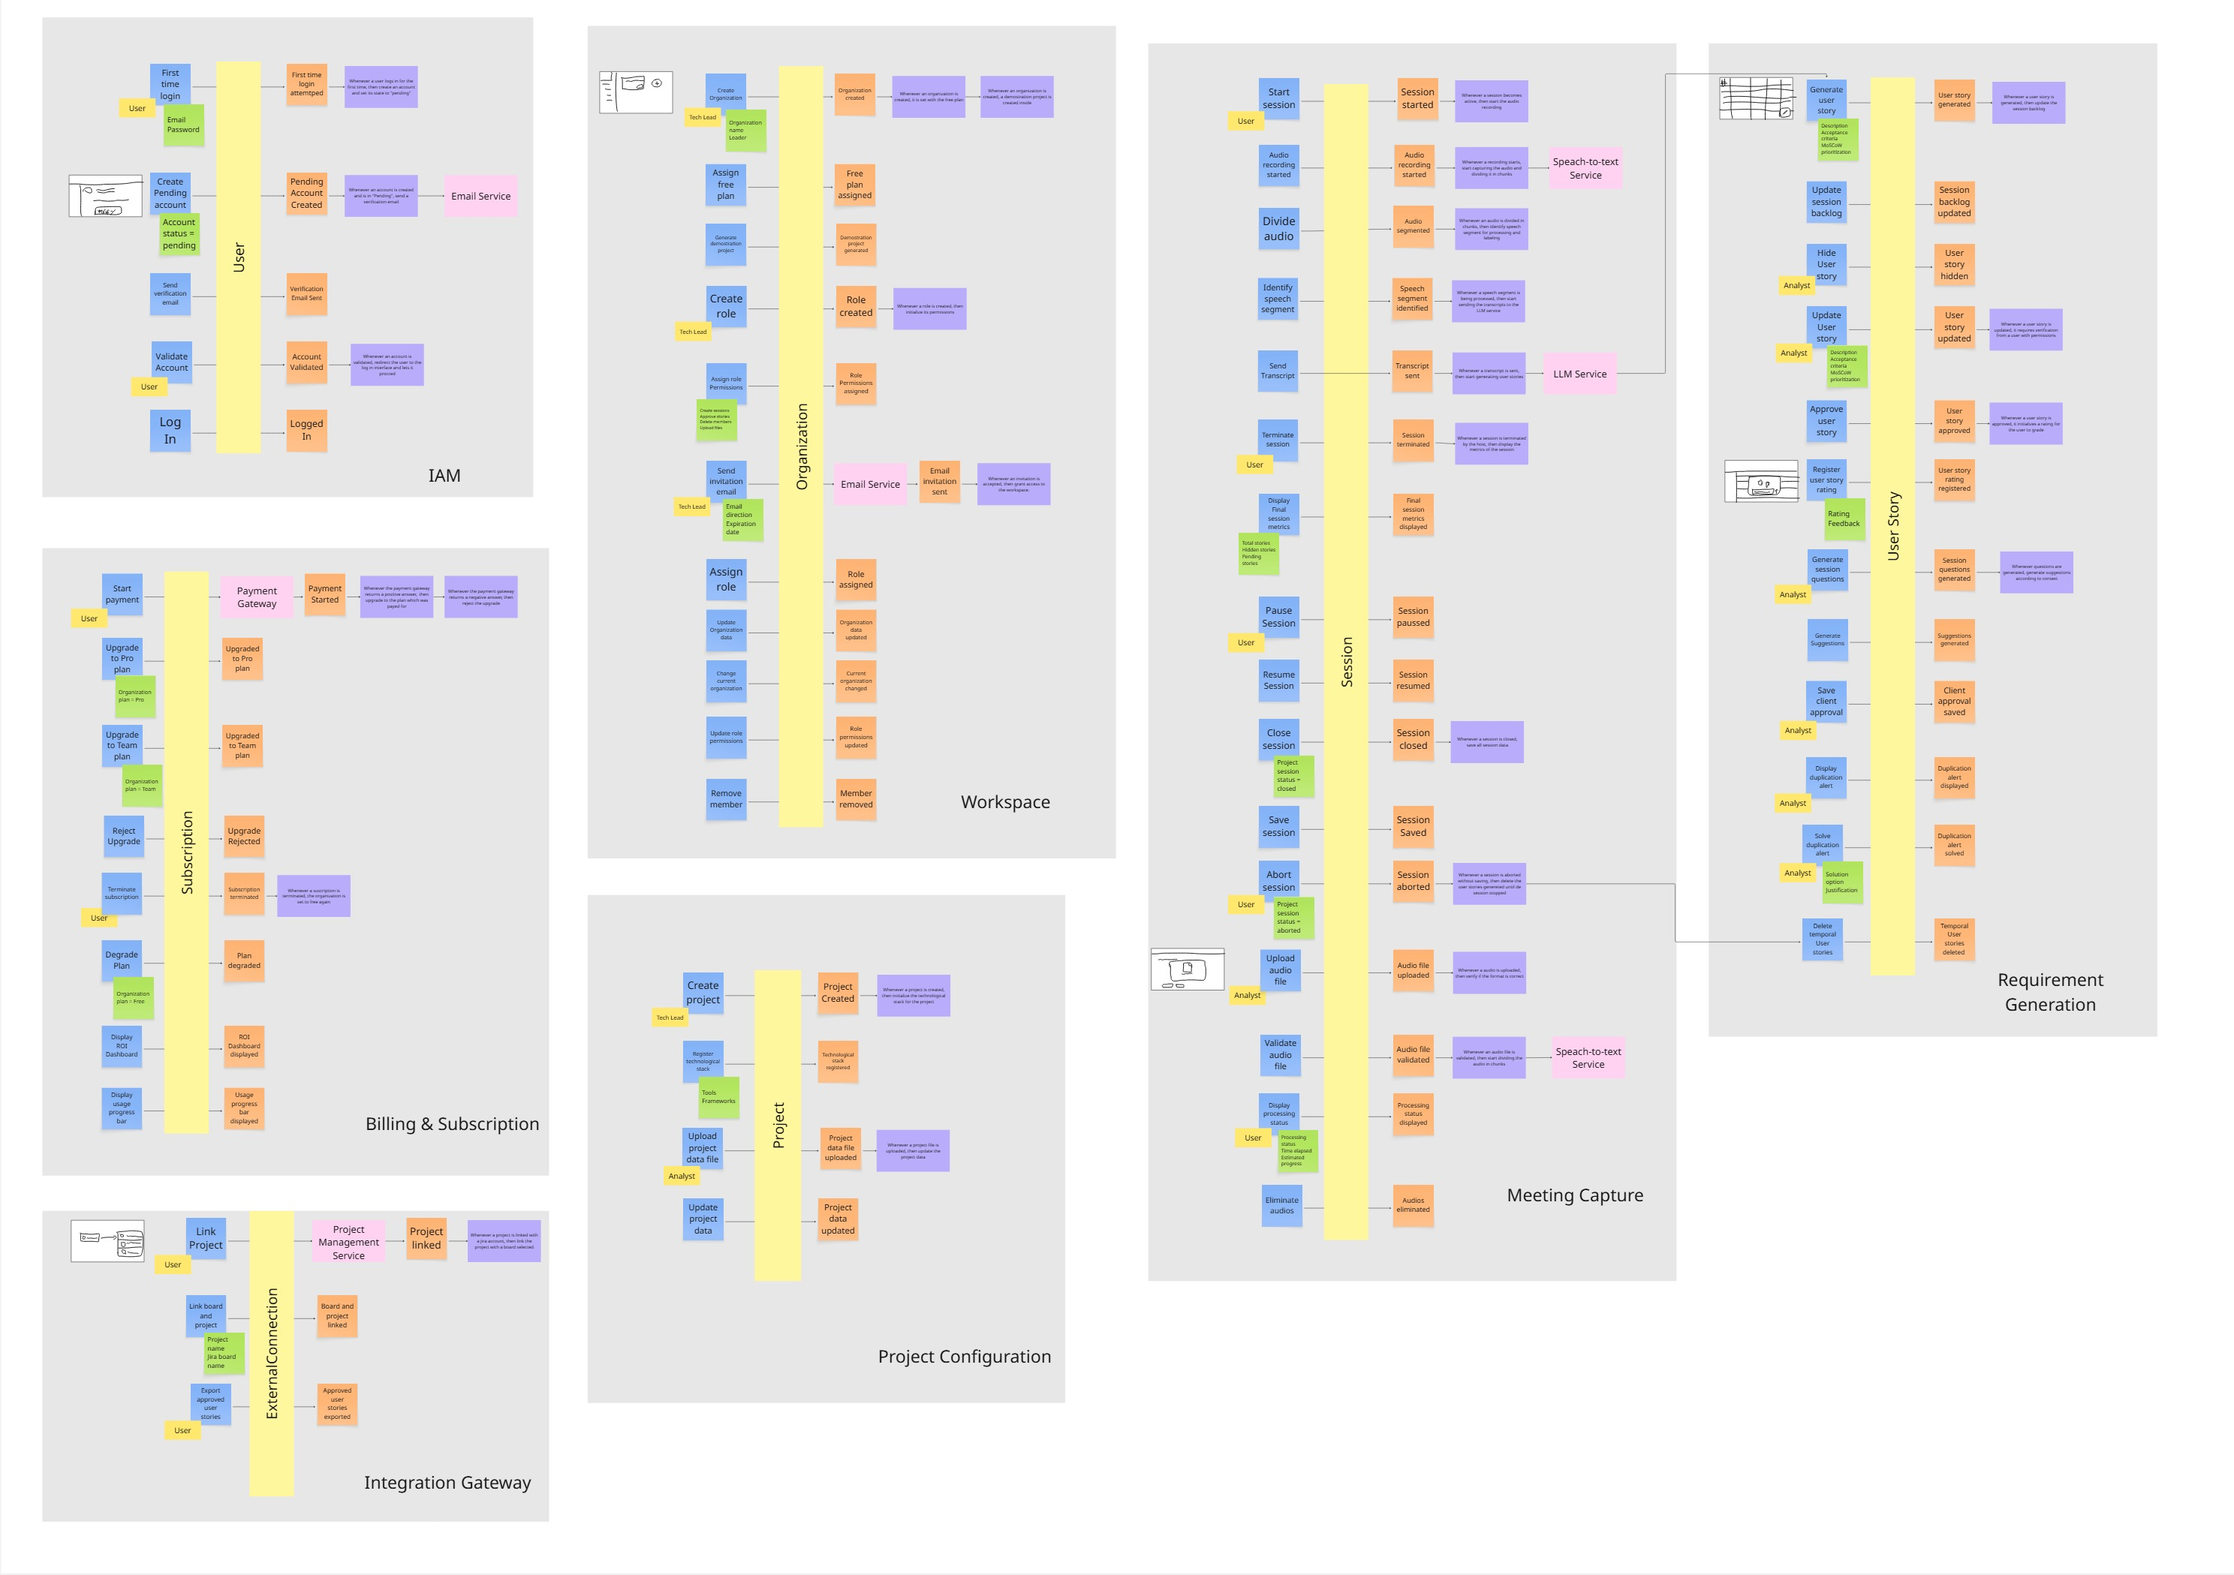
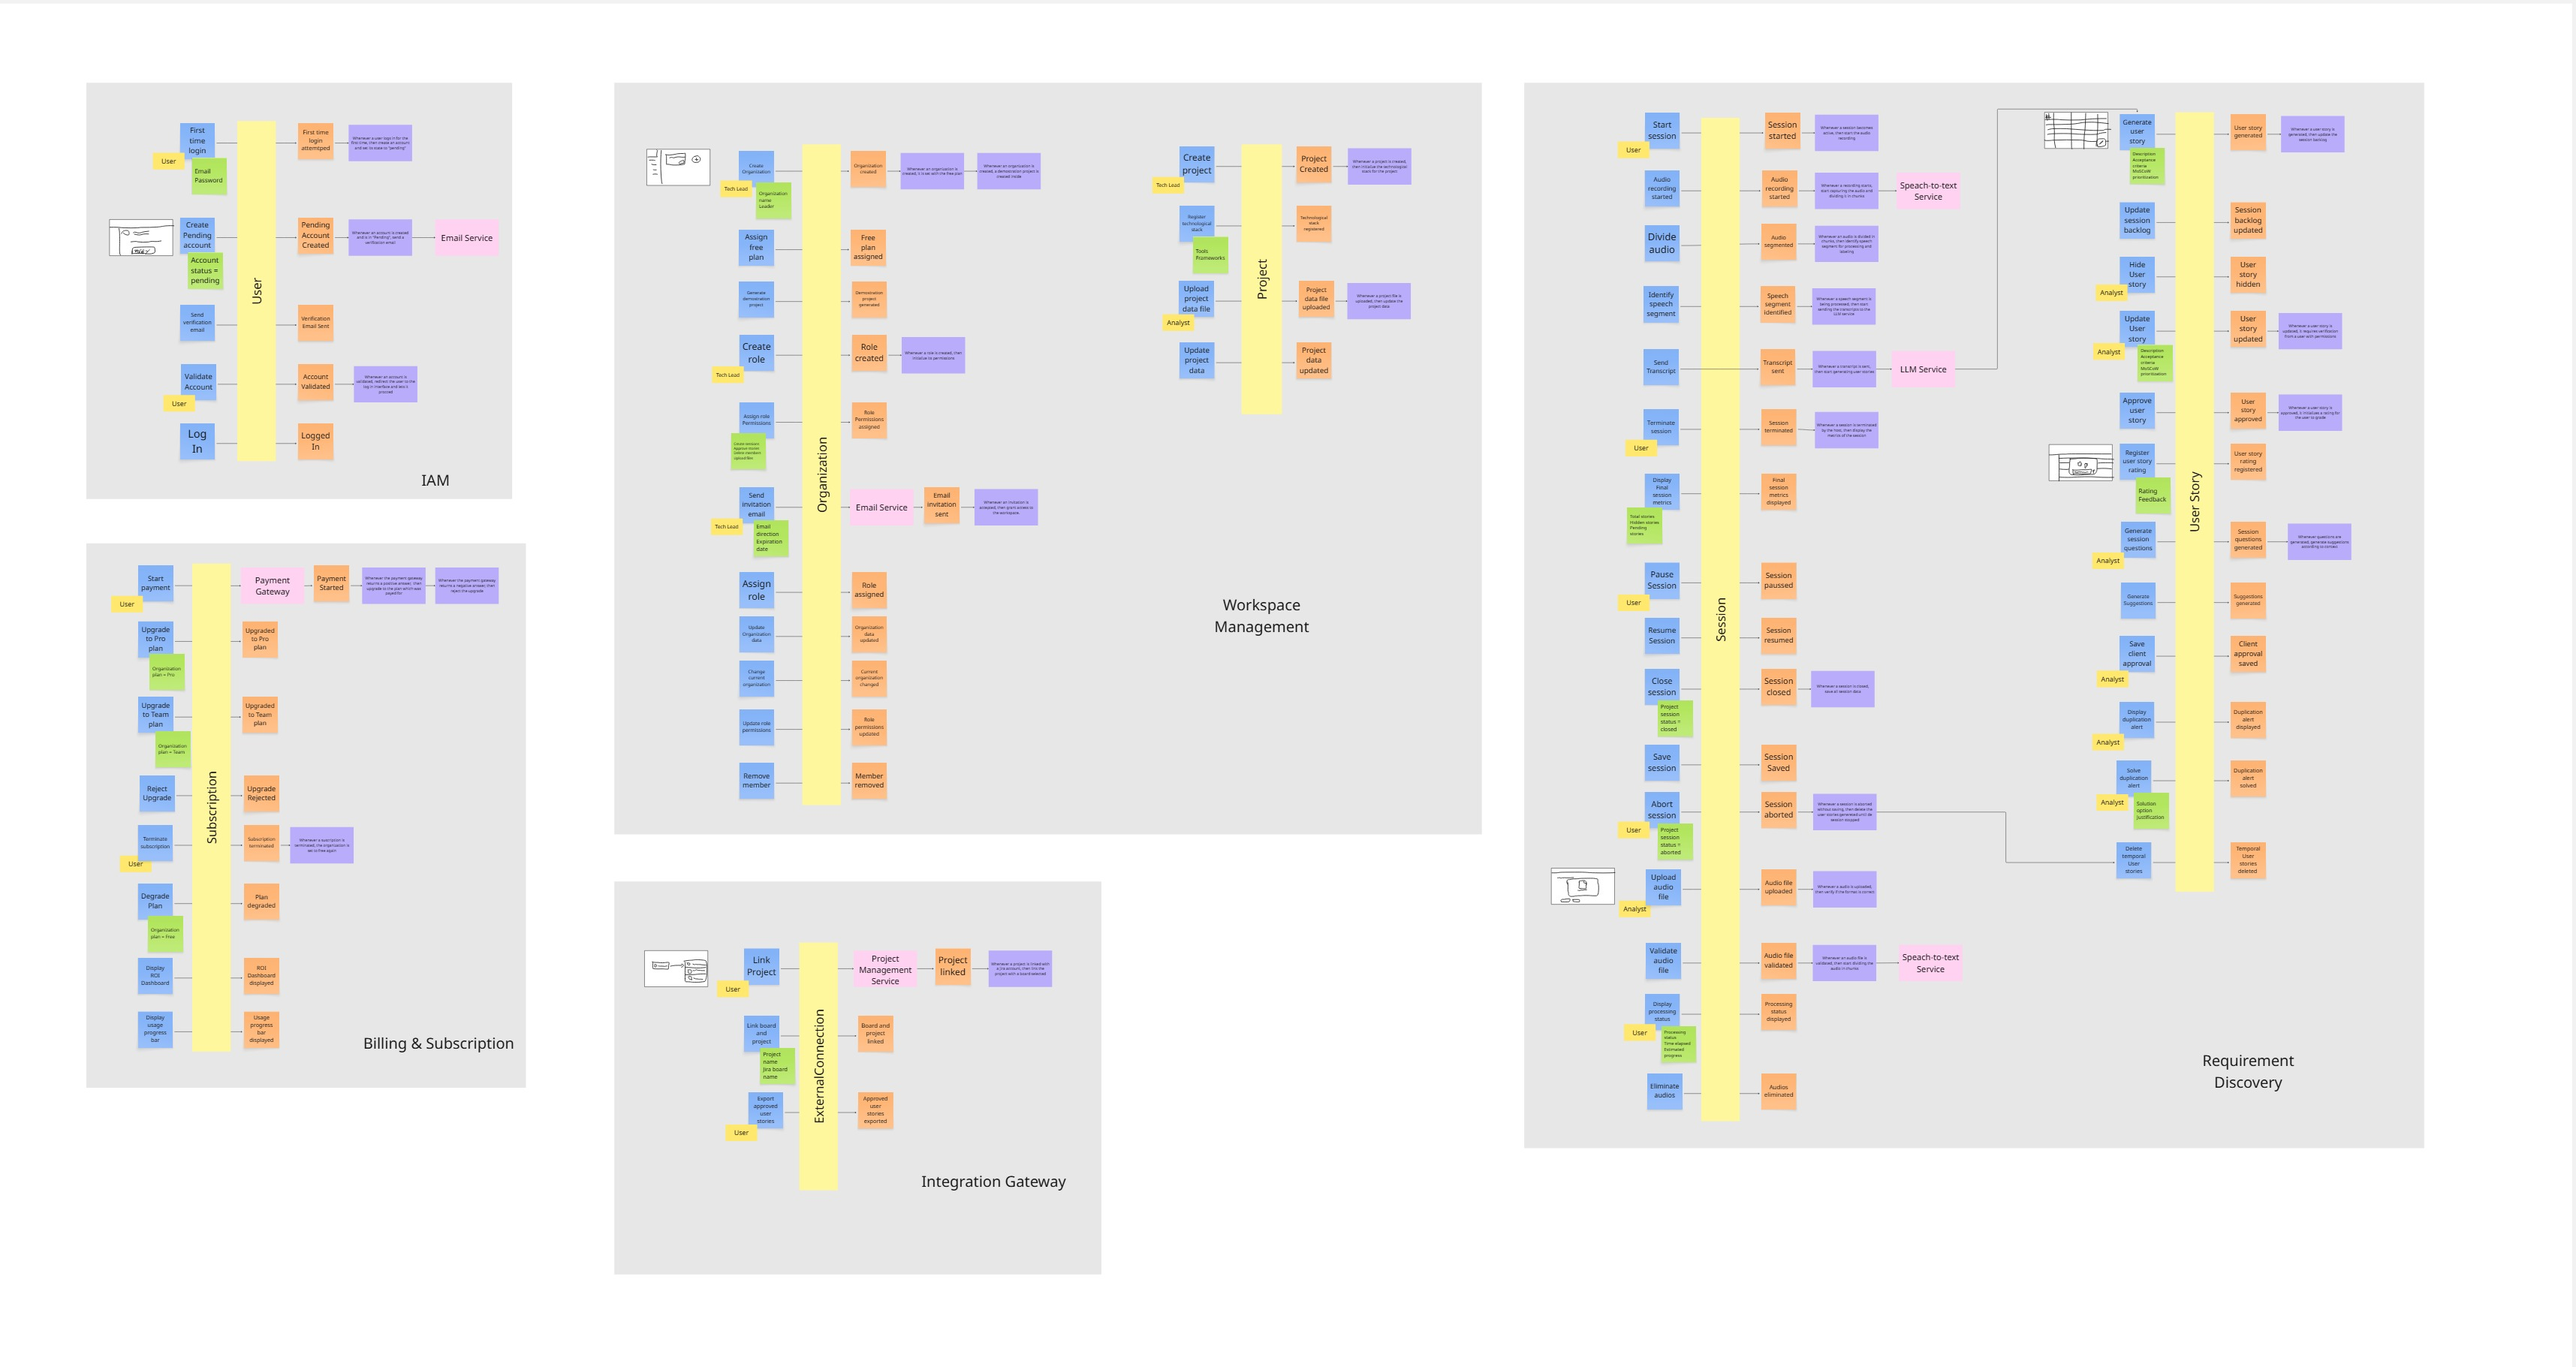
refactor: refactor bounded contexts in candidate context recovery

diff --git a/README.md b/README.md
@@ -1313,38 +1313,34 @@ El resultado de la sesión de Design-Level Event Storming fue un mapa exhaustivo
 
 ### 4.2.2.	Candidate Context Discovery
 
-A partir del dominio modelado en nuestra sesión de EventStorming, el equipo llevó a cabo un taller colaborativo de descubrimiento de contextos de aproximadamente 2 horas. El objetivo de esta fase fue trazar fronteras lógicas alrededor de los Agregados identificados previamente, con el fin de descomponer el sistema en módulos altamente cohesivos y con bajo acoplamiento (Bounded Contexts).
+A partir del dominio modelado en nuestra sesión de EventStorming, el equipo llevó a cabo un taller colaborativo de descubrimiento de contextos (Candidate Context Discovery) de aproximadamente 2 horas. El objetivo de esta fase fue trazar fronteras lógicas alrededor de los Agregados identificados previamente, con el fin de descomponer el sistema en módulos altamente cohesivos y con bajo acoplamiento (Bounded Contexts).
 
-Para lograr esto, no nos basamos en corazonadas técnicas, sino que aplicamos rigurosamente tres heurísticas de Domain-Driven Design recomendadas por la industria (Alberto Brandolini y Nick Tune) sobre nuestro tablero de Miro. A continuación, se explica la aplicación progresiva de cada heurística y los resultados obtenidos:
+Para lograr esto, aplicamos rigurosamente tres heurísticas de Domain-Driven Design recomendadas por la industria (Alberto Brandolini y Nick Tune). Tras una reciente refactorización arquitectónica para evitar el anti-patrón de "Nano-Servicios" y mejorar la cohesión, consolidamos nuestro diseño. A continuación, se explica la aplicación de cada heurística:
 
-1. Aplicación de "Start-with-value" (Identificando el Core Domain)
-   Comenzamos el análisis preguntándonos: *¿Por qué partes del sistema pagarían nuestros clientes?* La propuesta de valor y ventaja competitiva de Reqs-AI radica exclusivamente en la transcripción en vivo y la inferencia de Inteligencia Artificial para generar historias de usuario estructuradas.
-*   Al analizar la complejidad del tablero, notamos que agrupar esta "magia" en un solo contexto generaría un "monolito de contexto", ya que el flujo del audio y el procesamiento del texto en LLMs manejan ciclos de vida, lenguajes ubicuos y requisitos de rendimiento distintos.
-*   **Decisión:** Dividimos el Core Domain en dos Bounded Contexts. Por un lado, el **Meeting Capture**, encargado del manejo de WebSockets y Speech-to-Text. Por el otro lado, **Requirement Generation** se encarga del manejo de los Prompts, el LLM y la gestión del formato Gherkin.
+1. Aplicación de "Start-with-value"
+Comenzamos el análisis preguntándonos: *¿Por qué partes del sistema pagarían nuestros clientes?* La propuesta de valor radica en capturar reuniones y transformarlas mediante IA en historias de usuario estructuradas.
+*   Decidimos agrupar los agregados Session (manejo de WebSockets/Audio) y User Story (Prompts y LLM) en un único y potente Core Domain llamado **Requirement Discovery**. Esto cohesiona todo el flujo de valor principal (Value Stream) bajo un mismo techo, minimizando la latencia de red entre la captura y el análisis.
 
-2. Aplicación de "Look-for-pivotal-events" (Fronteras por Cambio de Estado B2B)
-   Posteriormente, buscamos en la línea de tiempo los Eventos Pivote que marcan "un antes y un después" crítico en la vida de un cliente dentro de la plataforma.
-*   *Evento: "Account Validated" vs "Organization Created":* Observamos que la autenticación de un usuario es un problema genérico, mientras que gestionar a qué empresa pertenece y qué roles tiene es un problema organizativo B2B. **Decisión:** Extraímos el agregado *User* hacia un **IAM** independiente, y el agregado *Organization* hacia el **Workspace**.
-*   *Evento: "Upgraded to Pro Plan":* Este evento cambia radicalmente los límites operativos del sistema (cuotas). Involucra pasarelas de pago y facturación. **Decisión:** Aislamos el agregado *Subscription* en el **Billing & Subscription**.
+2. Aplicación de "Look-for-pivotal-events"
+Buscamos los Eventos Pivote que marcan hitos críticos en la vida del cliente.
+*   *Eventos: "Account Validated", "Organization Created" y "Project Created":* Extraímos el agregado User hacia un **IAM** independiente. Por otro lado, dado que un proyecto solo tiene sentido dentro de la estructura de una empresa, agrupamos Organization y Project en un solo contexto cohesionado llamado **Workspace Management**.
+*   *Evento: "Upgraded to Pro Plan":* Involucra pasarelas de pago y cuotas. Aislamos el agregado Subscription en el **Billing & Subscription**.
 
-3. Aplicación de "Start-with-simple" (Fronteras por Secuencia de Soporte)
-   Finalmente, agrupamos los agregados restantes evaluando su función en los pasos "antes" y "después" del proceso principal de captura de requisitos.
-*   Antes de que la IA pueda operar, el Analista necesita crear un entorno y subir documentos PDF de contexto. Esto pertenece al agregado *Project*. **Decisión:** Agrupado en el **Project Configuration**.
-*   Después de que las historias son aprobadas, deben enviarse a plataformas externas. Aquí decidimos aplicar el patrón *Anti-Corruption Layer (ACL)* aislando el agregado *ExternalConnection* para que los cambios en las APIs de terceros no contaminen el Core de Reqs-AI, aislandolo en **Integration Gateway**.
+3. Aplicación de "Start-with-simple"
+Evaluamos las integraciones post-procesamiento.
+*   Después de que las historias son generadas, deben enviarse a plataformas externas (ej. Jira). Para proteger nuestro Core Domain de los constantes cambios en las APIs de terceros, aplicamos el patrón Anti-Corruption Layer (ACL) aislando el agregado ExternalConnection en el **Integration Gateway**.
 
 
 **Resumen de Bounded Contexts Descubiertos**
-A través de este proceso analítico y evolutivo, el sistema quedó dividido arquitectónicamente en los siguientes 7 Candidate Bounded Contexts:
+A través de este proceso analítico y evolutivo, el sistema quedó dividido arquitectónicamente en los siguientes 5 Candidate Bounded Contexts:
 
-| Bounded Context | Tipo de Subdominio | Agregado(s) Principal(es) | Responsabilidad Principal |
-| :--- | :--- | :--- | :--- |
-| **1. Meeting Capture** | Core Domain | Session | Ingesta de audio en tiempo real (WebSockets), control de estado de la reunión (iniciar/pausar) e integración con el servicio de Speech-to-Text. |
-| **2. Requirement Generation** | Core Domain | User Story | Inferencia mediante LLMs, fragmentación de contexto (RAG), generación y estructuración del formato Gherkin, y gestión de similitudes. |
-| **3. IAM** | Generic Subdomain | User | Autenticación, registro, validación de correo y gestión de credenciales seguras. |
-| **4. Workspace** | Generic Subdomain | Organization | Aislamiento Multitenant (Row Level Security), gestión de espacios de trabajo, invitación de miembros y roles corporativos. |
-| **5. Billing & Subscription** | Generic Subdomain | Subscription | Integración con pasarelas de pago (ej. Stripe), upgrades/downgrades de planes y monitoreo de consumo de cuotas/tokens. |
-| **6. Project Configuration** | Supporting Subdomain | Project | Estructura local de iniciativas del cliente, almacenamiento de parámetros técnicos y alojamiento de PDFs de glosario. |
-| **7. Integration Gateway** | Supporting Subdomain | ExternalConnection | Capa Anticorrupción (ACL) para autorizar credenciales (OAuth) y exportar historias hacia herramientas externas como Jira. |
+| Bounded Context               | Tipo de Subdominio   | Agregado(s) Principal(es) | Responsabilidad Principal                                                                                                  |
+|:------------------------------|:---------------------|:--------------------------|:---------------------------------------------------------------------------------------------------------------------------|
+| **1. Requirement Discovery**  | Core Domain          | Session, User Story       | Ingesta de audio (WebSockets), inferencia mediante LLMs, fragmentación de contexto (RAG) y generación del formato Gherkin. |
+| **2. Workspace Management**   | Generic Subdomain    | Organization, Project     | Aislamiento Multitenant (Row Level Security), gestión de proyectos, roles corporativos y almacenamiento de glosarios.      |
+| **3. IAM**                    | Generic Subdomain    | User                      | Autenticación, registro, validación de correo y gestión de credenciales seguras.                                           |
+| **4. Billing & Subscription** | Generic Subdomain    | Subscription              | Integración con pasarelas de pago, upgrades/downgrades de planes y monitoreo de consumo de cuotas/tokens.                  |
+| **5. Integration Gateway**    | Supporting Subdomain | ExternalConnection        | Capa Anticorrupción (ACL) para autorizar credenciales (OAuth) y exportar historias hacia herramientas externas como Jira.  |
 
 ![CCD](assets/4.Strategic-Level-Product-Design/4.2.Strategic-Level-DDD/4.2.2.Candidate-Context-Discovery/Bounded-Contexts.jpg)
 
